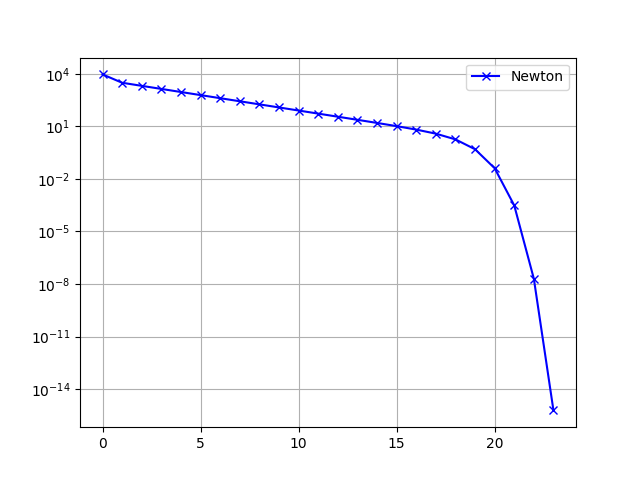
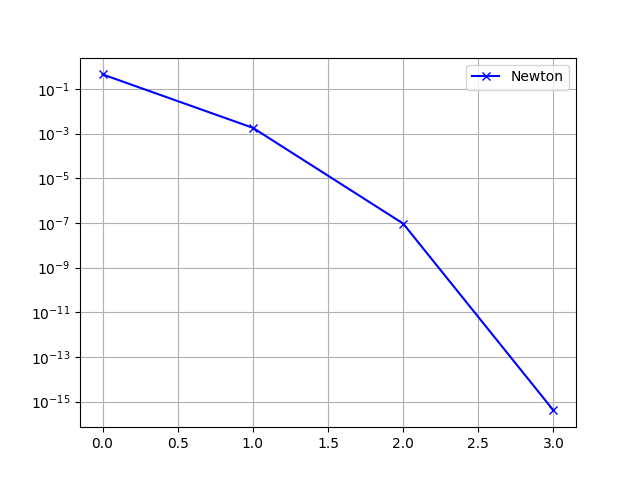
10.4. repaired the third

diff --git a/Ue10/Ex10_4.py b/Ue10/Ex10_4.py
@@ -26,7 +26,7 @@ if __name__ == "__main__":
     # n = 10
     n = int(input("n = "))
     print("n = ",n," selected!")
-    h = 1/n-1
+    h = 1/(n-1)
     A = 1/h**2 * (2*np.eye(n,n,dtype=float) - np.eye(n,n,k=1,dtype=float) - np.eye(n,n,k=-1,dtype=float))
     b = np.zeros(n,dtype=float)
     ########
@@ -40,12 +40,12 @@ if __name__ == "__main__":
     print("Iterating...please hold the line!")
     eps = 1e-15
     error = []
-    iterations = 1000
+    iterations = 100
     for i in list(range(0,iterations)):
         xn1 = netwonXD(A,x,f,df,n,h)
         error.append(np.linalg.norm(xn1 - x))
         if error[-1] < eps:# or np.allclose(x,xn1,rtol=eps):
-            print("Break condition: <xn, xnp1 close>")
+            # print("Break condition: <xn, xnp1 close>")
             iterations = i+1
             np.copyto(x,xn1)
             break
